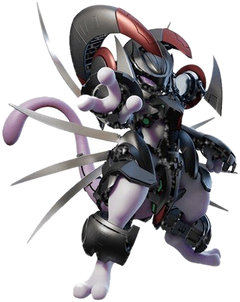
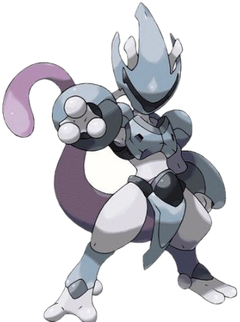
feat: 機械超夢換新圖(銀甲版) + 向左移一個身位 + 題庫重編小一至小三奧數60題

diff --git a/gym.html b/gym.html
@@ -79,6 +79,7 @@ body{
 #toast.show{opacity:1;transform:translateX(-50%) translateY(0)}
 #battleStage.mecha{background:url('gym-bg-mecha.jpg') center/cover no-repeat}
 #battleStage.mecha .enemy-side img{width:150px}
+#battleStage.mecha .enemy-side{right:calc(8% + 150px)}  /* 機械超夢向左移一個身位 */
 #battleStage.mecha .hearts{display:grid;grid-template-columns:repeat(3,auto);justify-content:center;gap:2px 4px}
 #battleView.boss #enemyTeamBar{display:none}  /* Boss 戰: 敵方 6 心已喺 info box, 刪重複列慳空間 */
 
@@ -581,68 +582,68 @@ function generateQuestion(level){
   return MATH_LEVELS[lvl-1]();
 }
 
-// ===== BOSS QUESTIONS (小一奧數 60 題, 每場隨機抽 6) =====
+// ===== BOSS QUESTIONS (小一至小三奧數 60 題, 每場隨機抽 6) =====
 const BOSS_QUESTIONS=[
   {q:'2,4,6,8,?,12，?是多少？',opts:[9,10,11,14],a:10},
   {q:'1,3,5,7,?,11，?是多少？',opts:[8,9,10,12],a:9},
-  {q:'10,20,30,40,?，?是多少？',opts:[45,50,55,60],a:50},
-  {q:'5,10,15,20,?，?是多少？',opts:[22,24,25,30],a:25},
   {q:'9,7,5,3,?，?是多少？',opts:[0,1,2,4],a:1},
-  {q:'1,2,4,8,?，?是多少？',opts:[12,14,15,16],a:16},
-  {q:'3,6,9,?,15，?是多少？',opts:[10,11,12,13],a:12},
-  {q:'1,4,7,10,?，?是多少？',opts:[12,13,14,15],a:13},
-  {q:'20,16,12,8,?，?是多少？',opts:[2,4,6,8],a:4},
-  {q:'1,1,2,3,5,?，?是多少？',opts:[6,7,8,9],a:8},
   {q:'15隻腳與8隻腳，相差幾隻腳？',opts:[6,7,8,9],a:7},
-  {q:'18同9，相差幾多？',opts:[8,9,10,11],a:9},
-  {q:'13隻雞與6隻雞，相差幾隻？',opts:[5,6,7,8],a:7},
   {q:'7加幾多等於12？',opts:[4,5,6,7],a:5},
-  {q:'16減幾多等於9？',opts:[6,7,8,9],a:7},
-  {q:'比10大4嘅數係幾多？',opts:[12,13,14,15],a:14},
   {q:'比8細3嘅數係幾多？',opts:[4,5,6,7],a:5},
   {q:'兩個6相加係幾多？',opts:[10,11,12,13],a:12},
-  {q:'4個5相加係幾多？',opts:[16,18,20,25],a:20},
-  {q:'最大嘅兩位數係幾多？',opts:[90,98,99,100],a:99},
-  {q:'3+5+7+5=?',opts:[18,19,20,21],a:20},
-  {q:'1+2+3+4+5=?',opts:[14,15,16,17],a:15},
-  {q:'9+9+9=?',opts:[26,27,28,29],a:27},
-  {q:'12+8+5=?',opts:[23,24,25,26],a:25},
-  {q:'20-5-5=?',opts:[8,9,10,12],a:10},
-  {q:'15-7-3=?',opts:[4,5,6,7],a:5},
-  {q:'6+6+6+6=?',opts:[22,24,26,28],a:24},
-  {q:'100-40-30=?',opts:[20,30,40,50],a:30},
-  {q:'8+7+2=?',opts:[15,16,17,18],a:17},
-  {q:'25-9-6=?',opts:[9,10,11,12],a:10},
   {q:'小紅前面3人，後面4人，全隊幾人？',opts:[7,8,9,10],a:8},
   {q:'小明排第4，佢前面有幾人？',opts:[2,3,4,5],a:3},
-  {q:'隊裏10人，小明排第7，後面有幾人？',opts:[2,3,4,5],a:3},
   {q:'一星期有幾日？',opts:[5,6,7,8],a:7},
   {q:'左手5隻手指，雙手共有幾隻？',opts:[8,9,10,12],a:10},
   {q:'兩隻貓共有幾隻腳？',opts:[6,7,8,10],a:8},
   {q:'三隻小鳥共有幾隻腳？',opts:[4,6,8,12],a:6},
-  {q:'鋸1次變2段，鋸2次變幾段？',opts:[2,3,4,5],a:3},
-  {q:'剪1刀變2張，剪3刀變幾張？',opts:[3,4,5,6],a:4},
-  {q:'鐘面一共有幾多個數字？',opts:[10,11,12,13],a:12},
   {q:'1紅卡換2藍卡，3紅卡換幾張？',opts:[4,5,6,7],a:6},
   {q:'1蘋果換3橙，2蘋果換幾橙？',opts:[5,6,7,8],a:6},
-  {q:'1大杯等於2細杯，4細杯係幾多大杯？',opts:[1,2,3,4],a:2},
-  {q:'1個月亮換2個星，3個月亮換幾星？',opts:[5,6,7,8],a:6},
-  {q:'1星換2圓，2星加1圓係幾圓？',opts:[4,5,6,7],a:5},
-  {q:'1隻兔有4腳，2隻兔有幾腳？',opts:[6,8,10,12],a:8},
-  {q:'1架車有4輪，3架車有幾輪？',opts:[10,11,12,14],a:12},
-  {q:'2個5蚊銀仔係幾多蚊？',opts:[8,10,12,15],a:10},
-  {q:'1張10蚊可以換幾多個2蚊？',opts:[4,5,6,10],a:5},
-  {q:'1個5蚊加3個1蚊係幾多？',opts:[6,7,8,9],a:8},
-  {q:'正方體一共有幾個面？',opts:[4,6,8,12],a:6},
+  {q:'鋸1次變2段，鋸2次變幾段？',opts:[2,3,4,5],a:3},
+  {q:'剪1刀變2張，剪3刀變幾張？',opts:[3,4,5,6],a:4},
   {q:'三角形有幾多條邊？',opts:[2,3,4,5],a:3},
   {q:'正方形有幾多條邊？',opts:[3,4,5,6],a:4},
-  {q:'長方形有幾多個角？',opts:[3,4,5,6],a:4},
-  {q:'一個正方體有幾多個角？',opts:[6,8,10,12],a:8},
   {q:'圓形有幾多個角？',opts:[0,1,2,3],a:0},
-  {q:'骰子一共有幾多面？',opts:[4,5,6,8],a:6},
-  {q:'兩支鉛筆共有幾個筆尖？',opts:[1,2,3,4],a:2},
-  {q:'兩個盒各6面，共有幾面？',opts:[10,11,12,14],a:12},
-  {q:'3個三角形共有幾條邊？',opts:[6,8,9,10],a:9},
+  {q:'3+5+7+5=?',opts:[18,19,20,21],a:20},
+  {q:'1+2+3+4+5=?',opts:[14,15,16,17],a:15},
+  {q:'9+9+9=?',opts:[26,27,28,29],a:27},
+  {q:'12+8+5=?',opts:[23,24,25,26],a:25},
+  {q:'100-40-30=?',opts:[20,30,40,50],a:30},
+  {q:'8+7+2=?',opts:[15,16,17,18],a:17},
+  {q:'25-9-6=?',opts:[9,10,11,12],a:10},
+  {q:'7×8=?',opts:[54,56,58,64],a:56},
+  {q:'6×6=?',opts:[32,34,36,38],a:36},
+  {q:'9×9=?',opts:[72,79,81,89],a:81},
+  {q:'4×7=?',opts:[26,27,28,32],a:28},
+  {q:'36÷6=?',opts:[5,6,7,8],a:6},
+  {q:'48÷8=?',opts:[4,5,6,7],a:6},
+  {q:'72÷9=?',opts:[7,8,9,10],a:8},
+  {q:'1米有幾多厘米？',opts:[10,100,1000,10000],a:100},
+  {q:'1元有幾多個5角？',opts:[2,4,5,10],a:2},
+  {q:'下午3時即係幾點？',opts:[13,14,15,16],a:15},
+  {q:'一時有幾多分鐘？',opts:[30,45,60,90],a:60},
+  {q:'一日有幾多小時？',opts:[12,24,36,48],a:24},
+  {q:'半日有幾多小時？',opts:[6,12,18,24],a:12},
+  {q:'23+19+17=?',opts:[55,57,59,61],a:59},
+  {q:'100-37-23=?',opts:[40,42,44,46],a:40},
+  {q:'125+75=?',opts:[190,200,210,220],a:200},
+  {q:'500-128=?',opts:[362,368,372,382],a:372},
+  {q:'12×5=?',opts:[55,60,65,70],a:60},
+  {q:'15×4=?',opts:[56,58,60,62],a:60},
+  {q:'7×8×2=?',opts:[108,110,112,114],a:112},
+  {q:'96÷8=?',opts:[10,11,12,14],a:12},
+  {q:'54÷6=?',opts:[8,9,10,11],a:9},
+  {q:'一半嘅10係幾多？',opts:[4,5,6,10],a:5},
+  {q:'邊長5厘米嘅正方形，周界幾多？',opts:[15,20,25,30],a:20},
+  {q:'長方形長8闊3，周界幾多？',opts:[20,22,24,26],a:22},
+  {q:'三角形三邊3,4,5厘米，周界幾多？',opts:[10,11,12,15],a:12},
+  {q:'時鐘由2點到5點，過了幾小時？',opts:[2,3,4,5],a:3},
+  {q:'8時30分加30分係幾點？',opts:[8,9,10,11],a:9},
+  {q:'一本書85頁，睇咗29頁，剩幾頁？',opts:[54,55,56,58],a:56},
+  {q:'3個蘋果共15元，每個幾元？',opts:[3,4,5,6],a:5},
+  {q:'兩數之和36，一個係14，另一個幾多？',opts:[20,21,22,24],a:22},
+  {q:'最大嘅三位數係幾多？',opts:[900,990,999,1000],a:999},
+  {q:'24的一半係幾多？',opts:[10,12,14,16],a:12},
 ];
 
 let toastTimer=null;

diff --git a/sw.js b/sw.js
@@ -1,5 +1,5 @@
 /* 寶可夢 TCG 抽卡機 — Service Worker 離線快取 */
-const CACHE = 'ptcg-opener-v11';
+const CACHE = 'ptcg-opener-v12';
 const IMG_CACHE = 'ptcg-imgs-v1';
 const CORE = ['./', './index.html', './manifest.json', './icon.svg'];
 
